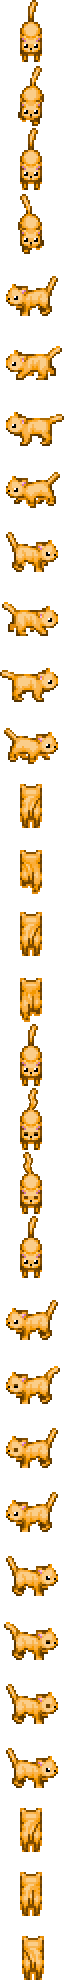
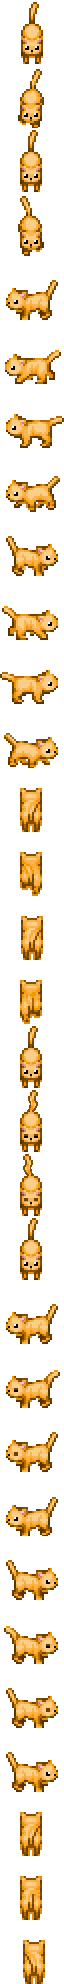
criado colisão e animação da porta

Changed region(s): [[0.0312, 0.0, 0.9688, 1.0]]

diff --git a/cliente/js/principal.js b/cliente/js/principal.js
@@ -1,6 +1,7 @@
 export default class principal extends Phaser.Scene {
   constructor() {
     super("principal");
+    this.chaves = 0;
   }
 
   preload() {
@@ -25,6 +26,18 @@ export default class principal extends Phaser.Scene {
     this.load.spritesheet("gato-2", "./assets/gato2-inteiro.png", {
       frameWidth: 64,
       frameHeight: 64,
+    });
+
+    // Objetos
+
+    this.load.spritesheet("chave", "./assets/objetos/chave.png", {
+      frameWidth: 32,
+      frameHeight: 32,
+    });
+
+    this.load.spritesheet("porta", "./assets/objetos/porta.png", {
+      frameWidth: 128,
+      frameHeight: 180,
     });
 
     // Botões
@@ -134,8 +147,8 @@ export default class principal extends Phaser.Scene {
       this.anims.create({
         key: "gato1-parado-baixo",
         frames: this.anims.generateFrameNumbers("gato-1", {
-          start: 28,
-          end: 31,
+          start: 20,
+          end: 23,
         }),
         frameRate: 4,
         repeat: -1,
@@ -161,8 +174,8 @@ export default class principal extends Phaser.Scene {
       this.anims.create({
         key: "gato1-parado-cima",
         frames: this.anims.generateFrameNumbers("gato-1", {
-          start: 28,
-          end: 31,
+          start: 17,
+          end: 19,
         }),
         frameRate: 4,
         repeat: -1,
@@ -173,6 +186,27 @@ export default class principal extends Phaser.Scene {
     // Personagem 2
     // Movimentos e Física
     this.jogador_2 = this.add.sprite(600, 225, "gato-2");
+
+    // Porta e Chave
+
+    this.porta = this.physics.add.sprite(1000, 550, "porta");
+    this.porta.body.setAllowGravity(false);
+    this.anims.create({
+      key: "porta-animada",
+      frames: this.anims.generateFrameNumbers("porta", {
+        start: 0,
+        end: 4,
+      }),
+      frameRate: 4,
+      repeat: -1,
+    }),
+      // Animação
+      this.porta.anims.play("porta-animada", true);
+    this.porta.body.setImmovable(true);
+
+    this.chave = this.physics.add.sprite(250, 550, "chave");
+    this.chave.body.setAllowGravity(false);
+    this.chave.disableBody(false, true);
 
     // Botão //
 
@@ -250,6 +284,24 @@ export default class principal extends Phaser.Scene {
       this
     );
 
+    /* Colisão entre jogador 1 e porta */
+    this.physics.add.collider(
+      this.jogador_1,
+      this.porta,
+      this.abrirPorta,
+      null,
+      this
+    );
+
+    /* Colisão entre jogador 1 e chave */
+    this.physics.add.collider(
+      this.jogador_1,
+      this.chave,
+      this.coletarChave,
+      null,
+      this
+    );
+
     /* Colisão com os limites da cena */
     this.jogador_1.setCollideWorldBounds(true);
 
@@ -260,4 +312,18 @@ export default class principal extends Phaser.Scene {
   }
 
   update() {}
+
+  abrirPorta() {
+    if (this.chaves === 0) {
+      this.chave.enableBody(true, 250, 550, true, true);
+    } else {
+      this.porta.anims.stop();
+      this.porta.setFrame(5);
+    }
+  }
+
+  coletarChave() {
+    this.chave.disableBody(true, true);
+    this.chaves += 1;
+  }
 }

diff --git a/cliente/js/index.js b/cliente/js/index.js
@@ -2,6 +2,8 @@ import config from "./config.js";
 
 import abertura from "./abertura.js";
 import principal from "./principal.js";
+//import fase2 from "./fase2.js";
+//import fase3 from "./fase3.js";
 //import fim_do_jogo from "./encerramento1.js";
 //import final_feliz from "./encerramento2.js";
 
@@ -14,7 +16,7 @@ class Game extends Phaser.Game {
     //this.scene.add("fim-do-jogo", fim_do_jogo);
     //this.scene.add("final-feliz", final_feliz);
 
-    this.scene.start("abertura");
+    this.scene.start("principal");
   }
 }
 

diff --git a/cliente/js/config.js b/cliente/js/config.js
@@ -6,7 +6,7 @@ export default {
   physics: {
     default: "arcade",
     arcade: {
-      gravity: { y: 500 },
+      gravity: { y: 400 },
       debug: true,
     },
   },

diff --git a/cliente/js/fase2.js b/cliente/js/fase2.js
@@ -1,0 +1,11 @@
+export default class encerramento extends Phaser.Scene {
+  constructor() {
+    super("fase2");
+  }
+
+  preload() {}
+
+  create() {}
+
+  upload() {}
+}

diff --git a/cliente/js/fase3.js b/cliente/js/fase3.js
@@ -1,0 +1,11 @@
+export default class encerramento extends Phaser.Scene {
+  constructor() {
+    super("fase3");
+  }
+
+  preload() {}
+
+  create() {}
+
+  upload() {}
+}
